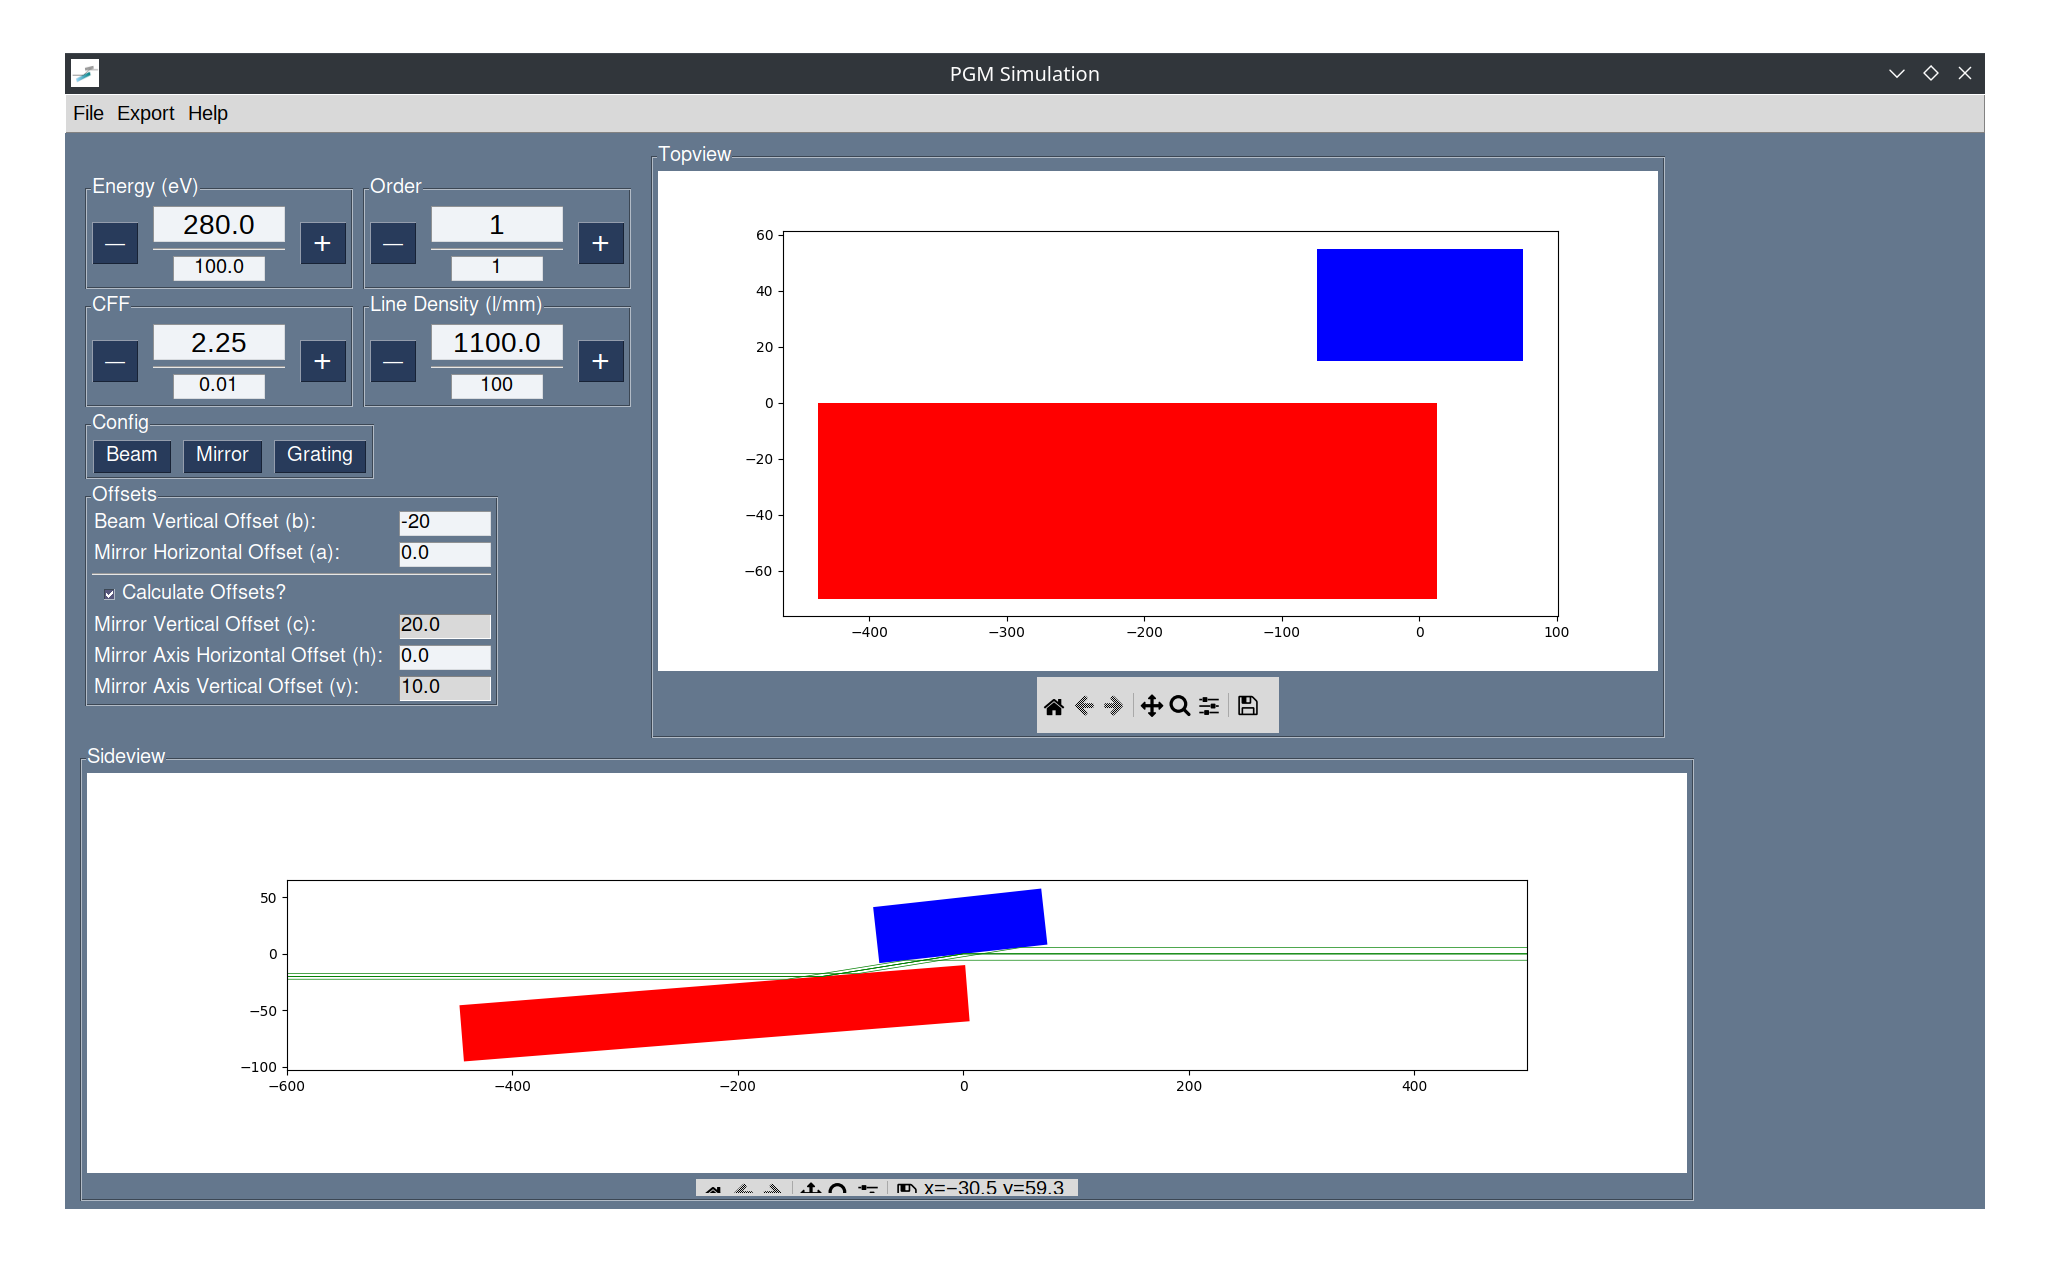
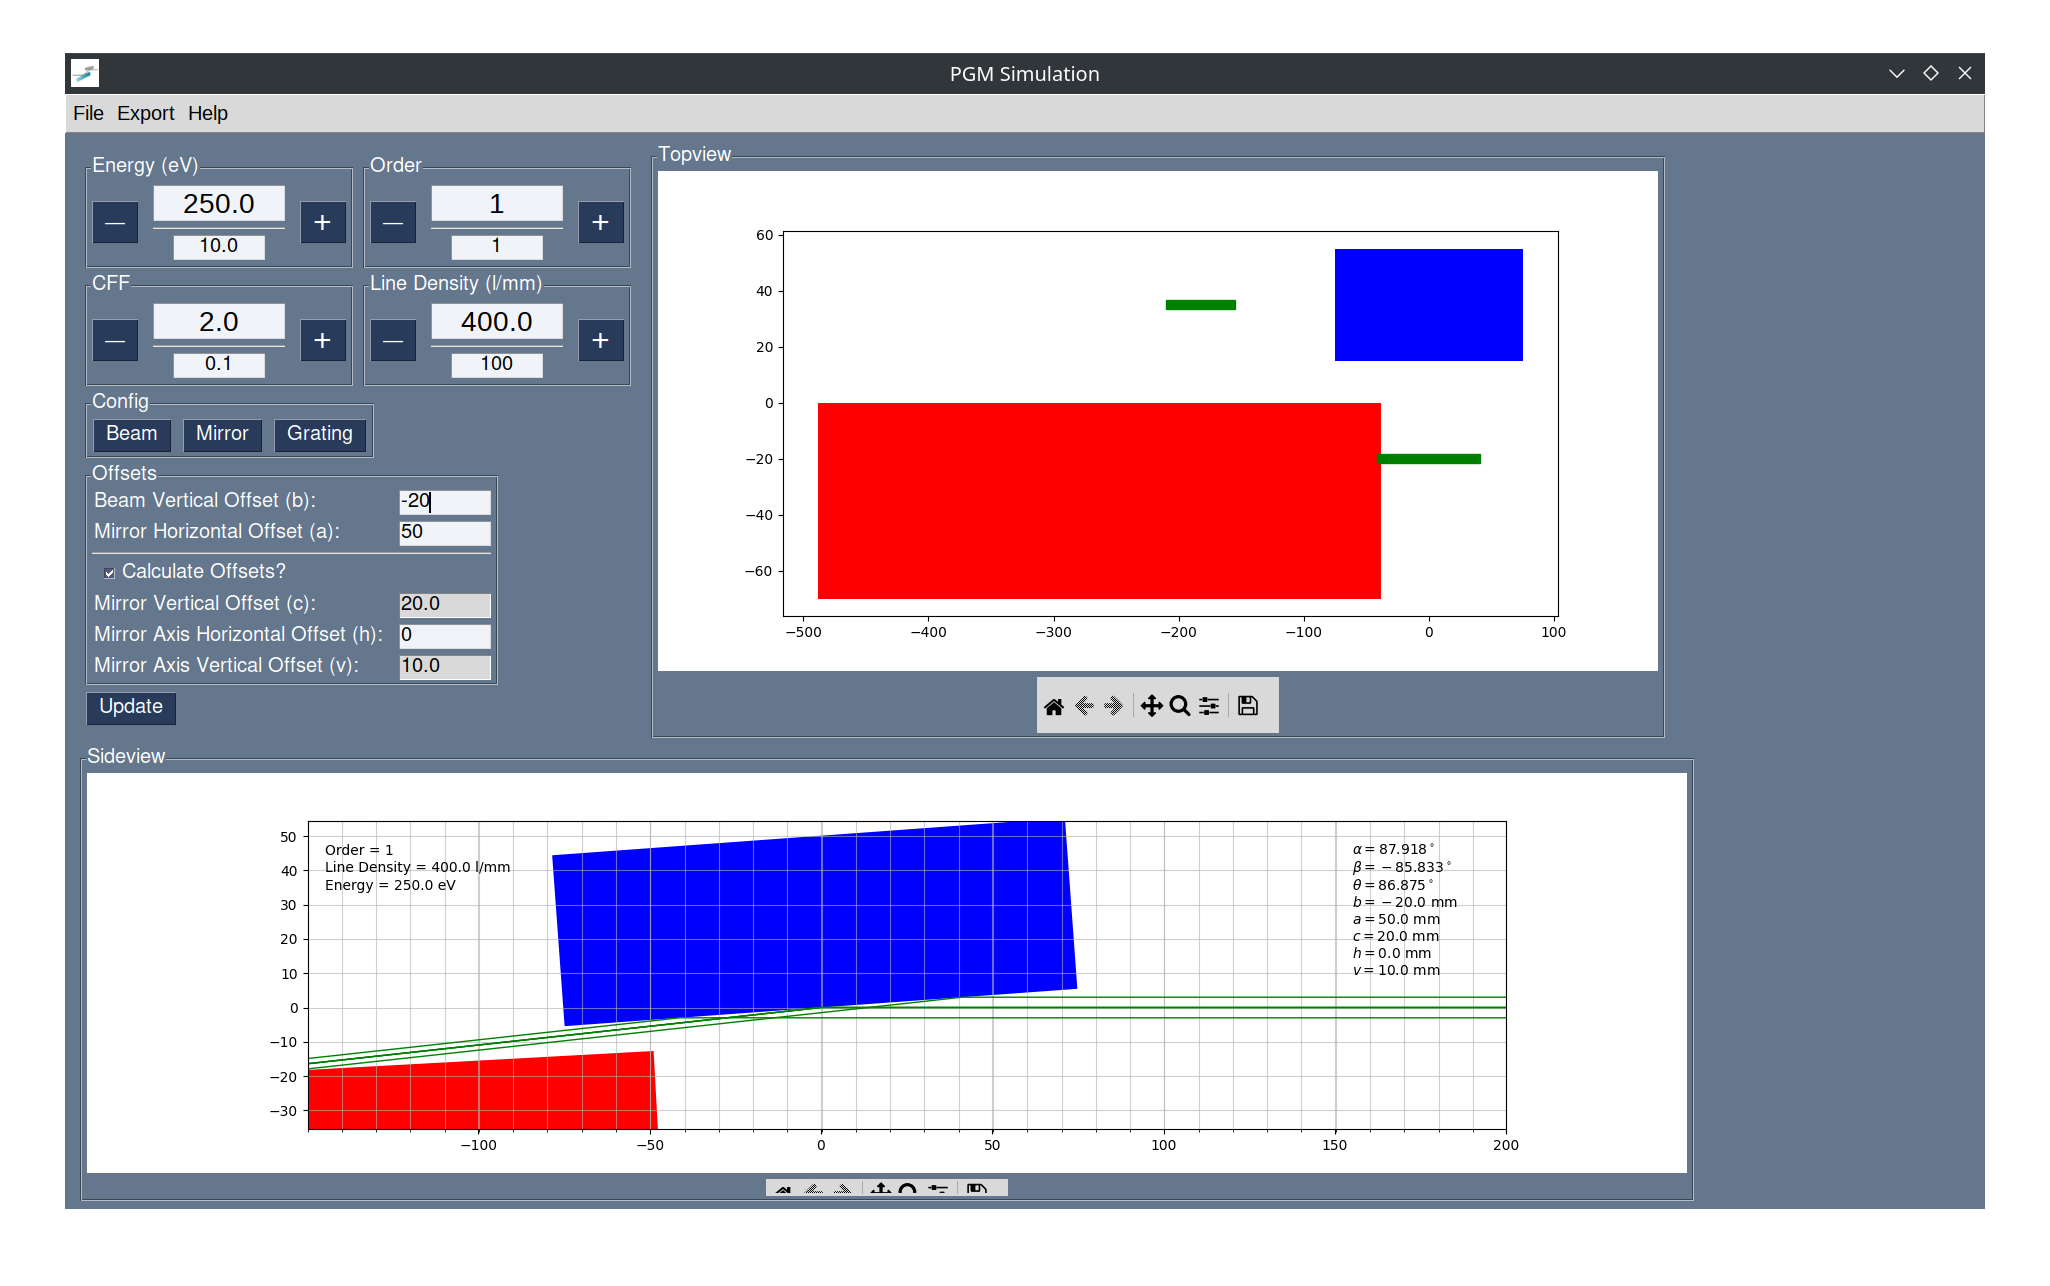
updated beam footprint functionality

diff --git a/components.py b/components.py
@@ -1428,30 +1428,34 @@ class PGM(object):
             [grating_rect[2][0] - self.grating.borders[3], grating_rect[2][1] - self.grating.borders[1]],
             [grating_rect[3][0] - self.grating.borders[3], grating_rect[3][1] + self.grating.borders[0]]])
         
-        """
+        self.generate_rays()
+        
         grating_ray, mirror_intercept, grating_intercept = self.propagate(self.rays)
-        """
+        
         #Index denotes the ray i.e. mirror_intercept[0] is the ray_0
-        """
-        mirror_blx = self.mirror_intercept[3].x + self.mirror._width/2
-        mirror_blz = self.mirror_intercept[2].z
-        mirror_l = self.mirror_intercept[1].z - self.mirror_intercept[2].z
-        mirror_w = self.mirror_intercept[4].x - self.mirror_intercept[3].x
+        
+        mirror_blx = mirror_intercept[3].x + self.mirror._width()/2
+        mirror_blz = mirror_intercept[2].z
+        mirror_l = mirror_intercept[1].z - mirror_intercept[2].z
+        mirror_w = mirror_intercept[4].x - mirror_intercept[3].x
         print('anything?')
 
-        grating_blx = self.grating_intercept[3].x - self.grating._width/2
-        grating_blz = self.grating_intercept[2].z
-        grating_l = self.grating_intercept[1].z - self.grating_intercept[2].z
-        grating_w = self.grating_intercept[4].x - self.grating_intercept[3].x
+        grating_blx = grating_intercept[3].x - self.grating._width()/2
+        grating_blz = grating_intercept[2].z
+        grating_l = grating_intercept[1].z - grating_intercept[2].z
+        grating_w = grating_intercept[4].x - grating_intercept[3].x
         
-        rectangle = Rectangle((mirror_blz, mirror_blx), mirror_l, mirror_w, color='g', alpha=1)
-        ax.add_patch(rectangle)
-        """
+        
+        
         ax.fill(mirror_rect_borders[:,0], mirror_rect_borders[:,1], 'b',alpha=0.5)
         ax.fill(grating_rect_borders[:,0], grating_rect_borders[:,1], 'b',alpha=1)
         ax.fill(mirror_rect[:,0], mirror_rect[:,1], 'r',alpha=1)
         ax.fill(grating_rect[:,0], grating_rect[:,1], 'b',alpha=0.5)
-        
+        rectangle = Rectangle((mirror_blz, mirror_blx), mirror_l, mirror_w, color='g', alpha=1)
+        ax.add_patch(rectangle)
+
+        rectangle = Rectangle((grating_blz, grating_blx), grating_l, grating_w, color='g', alpha=1)
+        ax.add_patch(rectangle)
         
         #print(mirror_rect_hull.vertices)
         return
